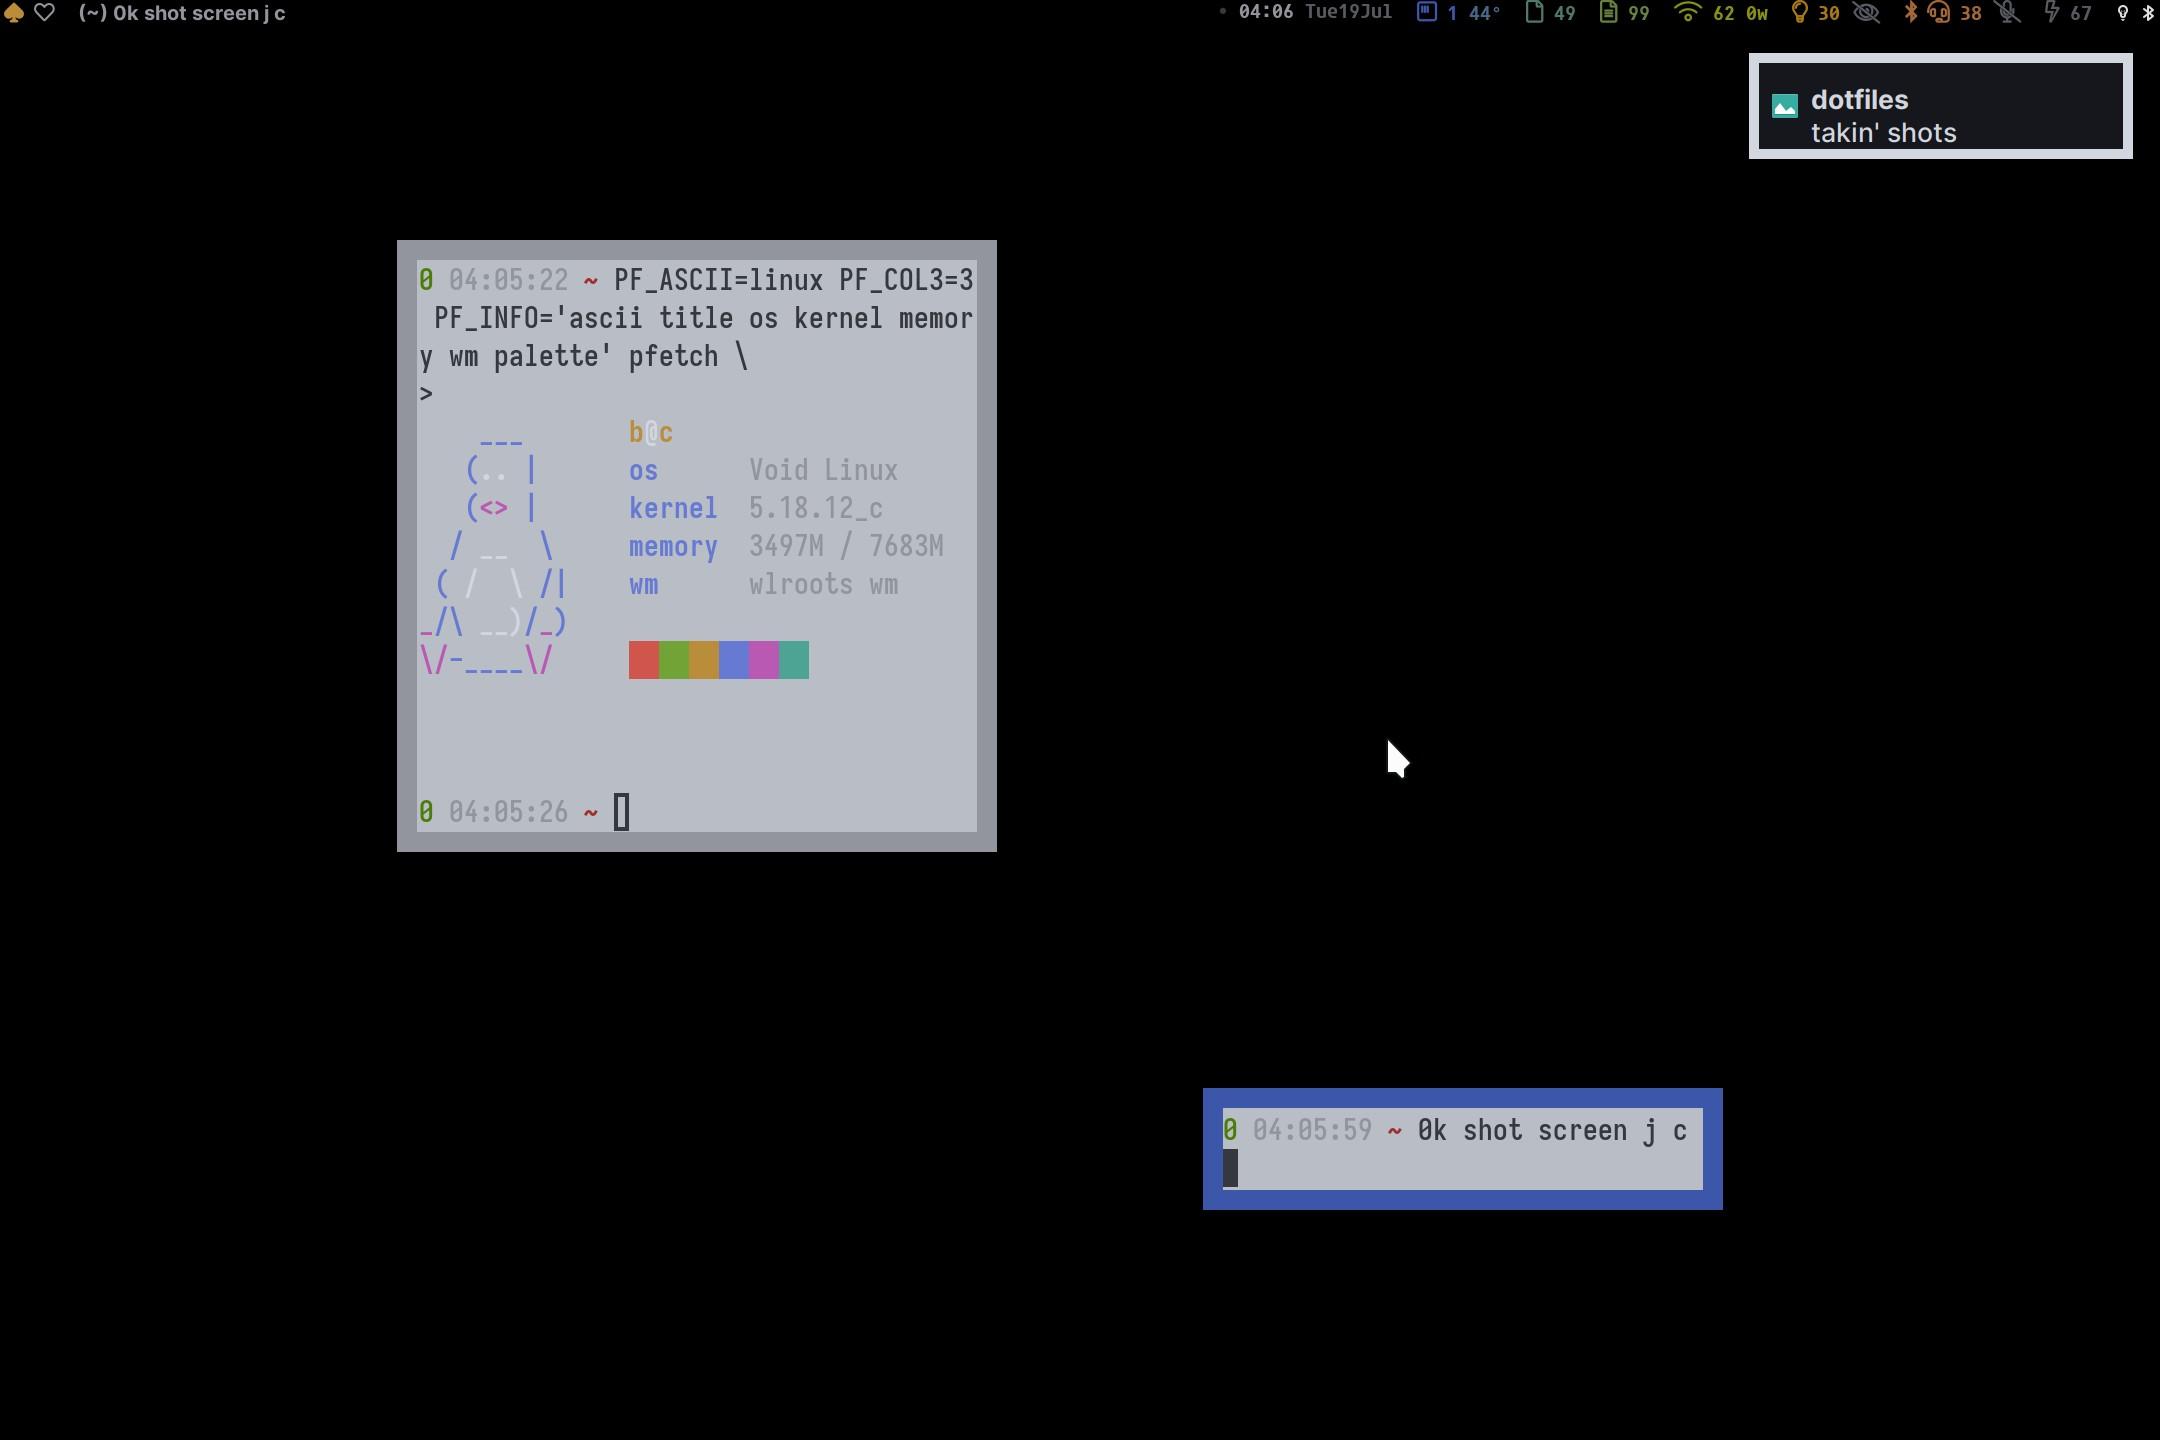
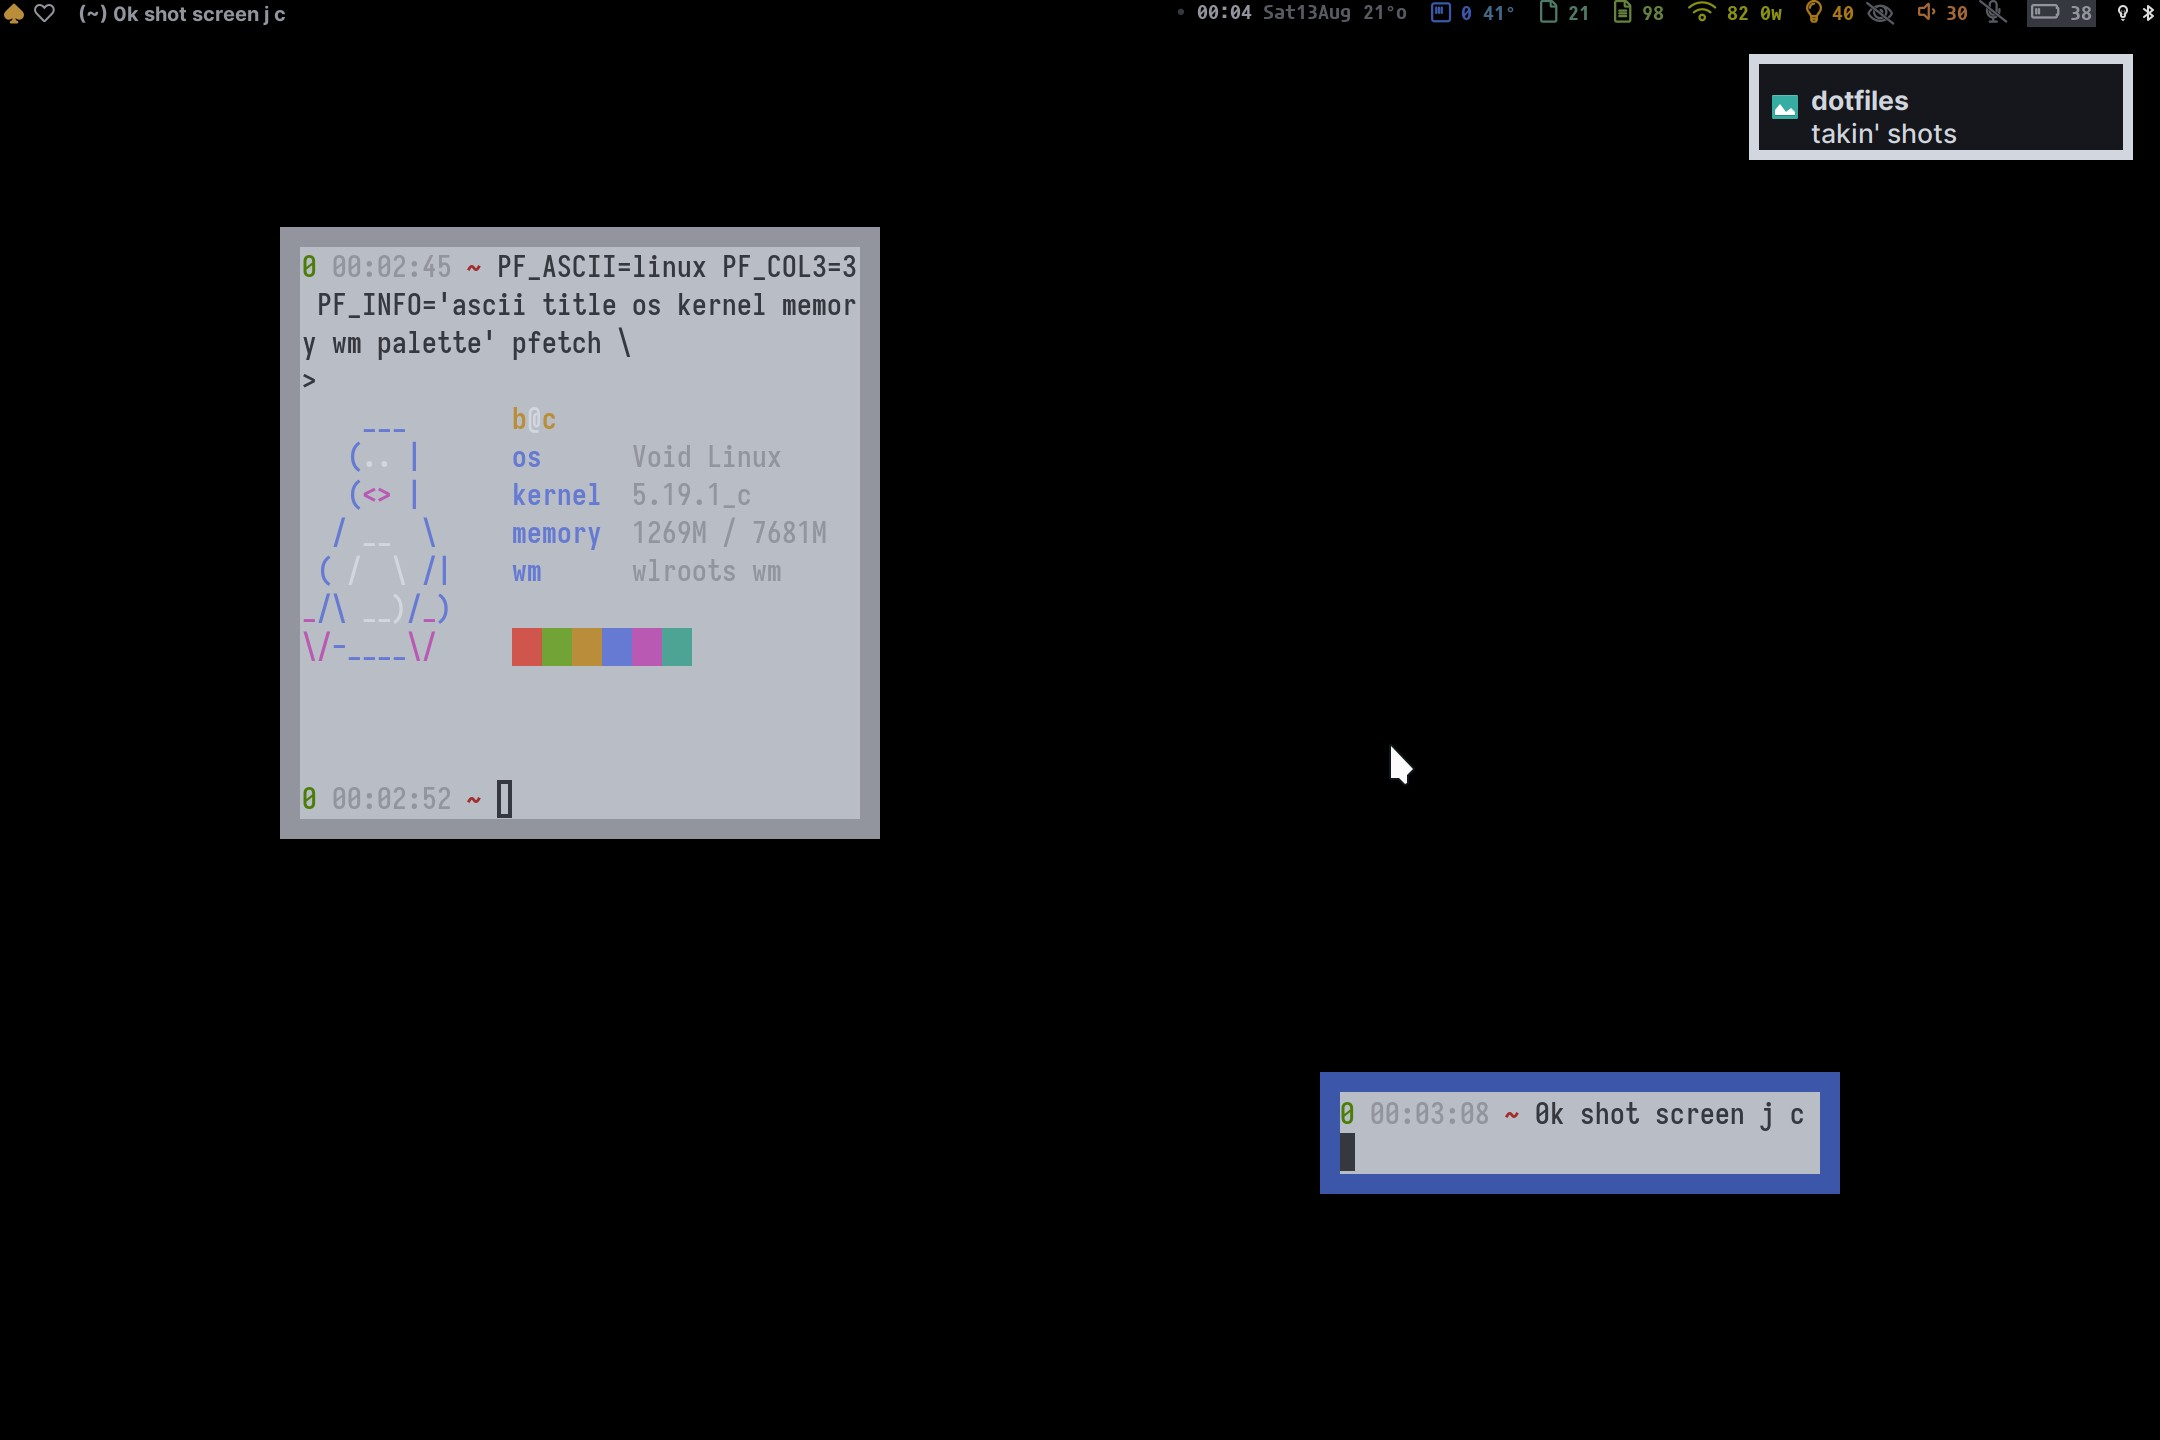
add weather to waybar

diff --git a/_waybar/.config/waybar/style.css b/_waybar/.config/waybar/style.css
@@ -11,15 +11,16 @@ window#waybar.hidden { opacity: 0.2; }
   font-family: "Font Awesome 5 Pro Solid";
 }
 #mode,
-#idle_inhibitor,
 #clock,
-#battery,
+#custom-weather,
 #cpu,
+#temperature,
 #memory,
 #disk,
-#temperature,
+#network,
 #backlight,
-#network {
+#idle_inhibitor,
+#battery {
   font-family: Agave, "Font Awesome 5 Pro Light";
   font-size: 22px;
   font-weight: 700;
@@ -63,10 +64,13 @@ window#waybar.hidden { opacity: 0.2; }
 #pulseaudio {
   margin: 0 12px;
 }
+#clock,
 #cpu,
 #backlight {
   margin-left: 12px;
 }
+#custom-weather { margin-right: 12px; }
+#cpu { margin-top: 1px; }
 #workspaces { margin-right: 4px; }
 #workspaces button { margin-right: 6px; padding: 0; min-width: 24px; }
 #workspaces button:hover { background: none; text-shadow: none; box-shadow: none; }
